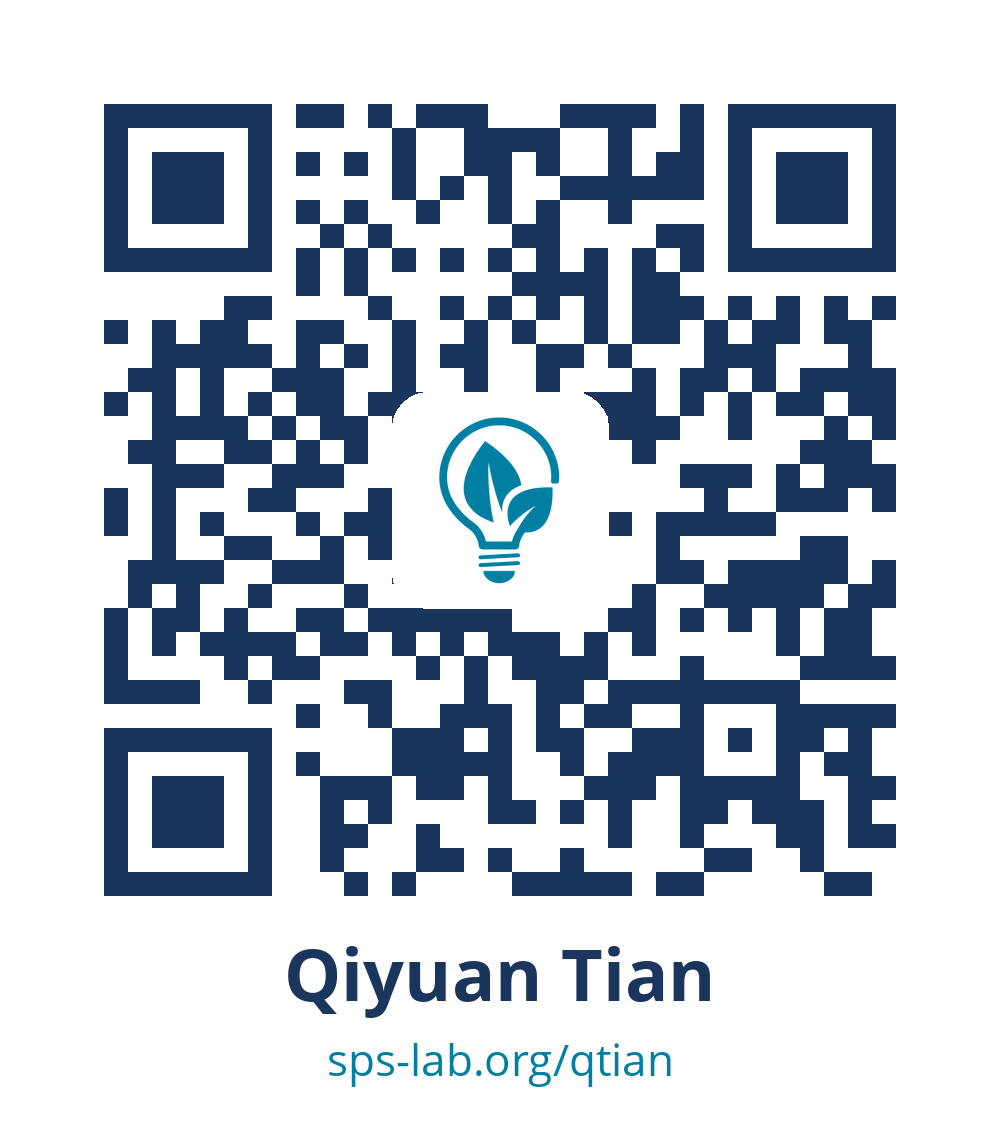
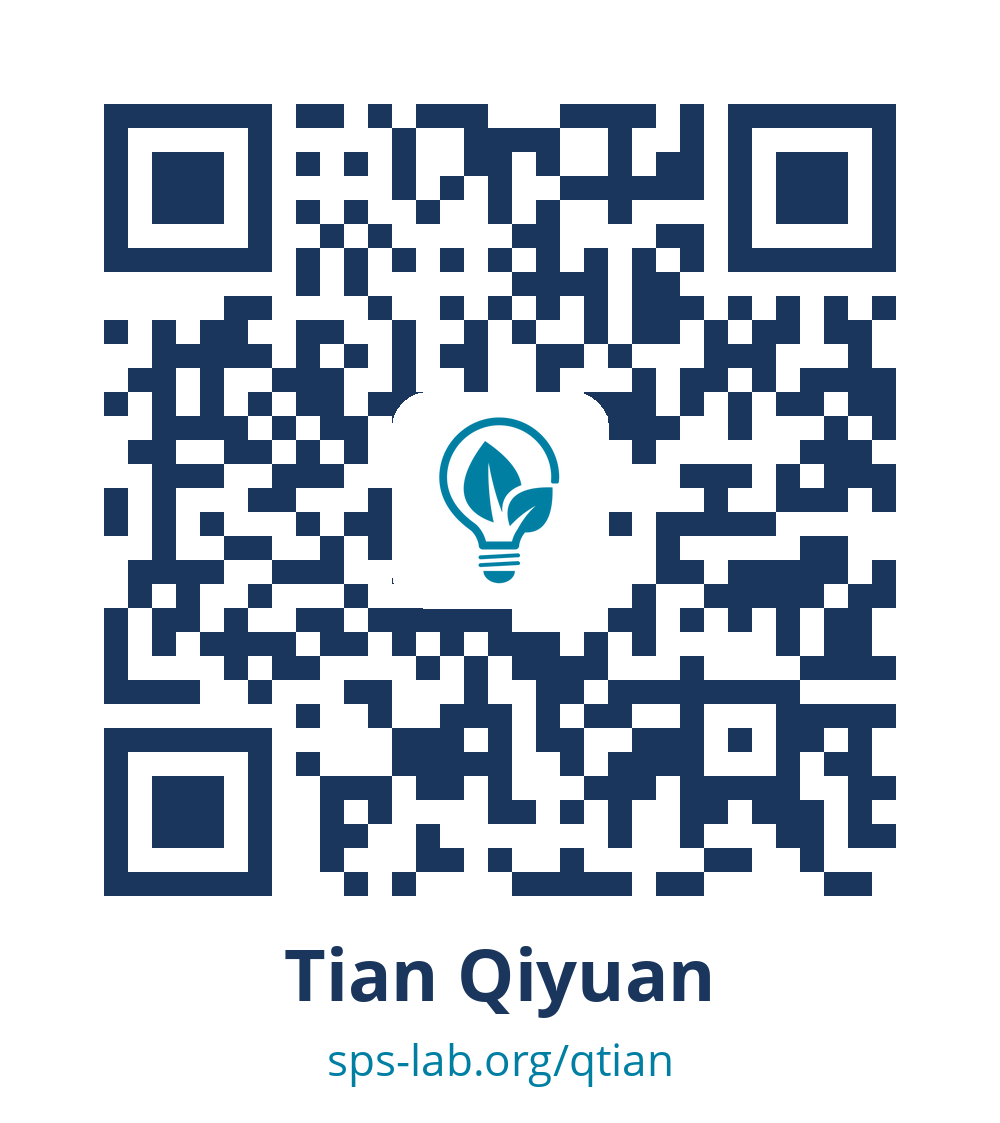
Show Yan Shuai and Tian Qiyuan in Chinese name order
Titles, bios and the QR-button paths (/author/yan-shuai/, /author/tian-qiyuan/)
updated; the two QR codes regenerated so the printed name matches. Folder
names and short links (/syan, /qtian) are unchanged.

Claude-Session: https://claude.ai/code/session_011wAJmhC83w7bsvpJ42zzDq

Changed region(s): [[0.279, 0.8415, 0.62, 0.9038]]

diff --git a/content/authors/s.-yan/_index.md b/content/authors/s.-yan/_index.md
@@ -1,6 +1,6 @@
 ---
 # Display name
-title: Shuai Yan
+title: Yan Shuai
 
 # Short link: https://sps-lab.org/syan (rendered into public/_redirects by the Netlify plugin)
 aliases: ["/syan"]
@@ -43,7 +43,7 @@ social:
 # QR code for this member's short link (generated by content/authors/make_qr.py)
 - icon: qrcode
   icon_pack: fas
-  link: /author/shuai-yan/qr.png
+  link: /author/yan-shuai/qr.png
   label: QR code for this page
 
 email: ""
@@ -51,4 +51,4 @@ email: ""
 user_groups:
 - Research Assistants
 ---
-Shuai Yan is a student of the [MSc in Electronic Science and Technology](https://mscest.cut.ac.cy/) at the Cyprus University of Technology (since 2026) and is carrying out the MSc thesis at the Sustainable Power Systems Lab. Shuai holds a BSc in Computer Science and Technology from Tianjin University of Commerce (2025).
+Yan Shuai is a student of the [MSc in Electronic Science and Technology](https://mscest.cut.ac.cy/) at the Cyprus University of Technology (since 2026) and is carrying out the MSc thesis at the Sustainable Power Systems Lab. Yan Shuai holds a BSc in Computer Science and Technology from Tianjin University of Commerce (2025).

diff --git a/content/authors/q.-tian/_index.md b/content/authors/q.-tian/_index.md
@@ -1,6 +1,6 @@
 ---
 # Display name
-title: Qiyuan Tian
+title: Tian Qiyuan
 
 # Short link: https://sps-lab.org/qtian (rendered into public/_redirects by the Netlify plugin)
 aliases: ["/qtian"]
@@ -39,7 +39,7 @@ social:
 # QR code for this member's short link (generated by content/authors/make_qr.py)
 - icon: qrcode
   icon_pack: fas
-  link: /author/qiyuan-tian/qr.png
+  link: /author/tian-qiyuan/qr.png
   label: QR code for this page
 
 email: ""
@@ -47,4 +47,4 @@ email: ""
 user_groups:
 - Research Assistants
 ---
-Qiyuan Tian is a student of the [MSc in Electronic Science and Technology](https://mscest.cut.ac.cy/) at the Cyprus University of Technology (since 2024) and is carrying out the MSc thesis at the Sustainable Power Systems Lab.
+Tian Qiyuan is a student of the [MSc in Electronic Science and Technology](https://mscest.cut.ac.cy/) at the Cyprus University of Technology (since 2024) and is carrying out the MSc thesis at the Sustainable Power Systems Lab.
